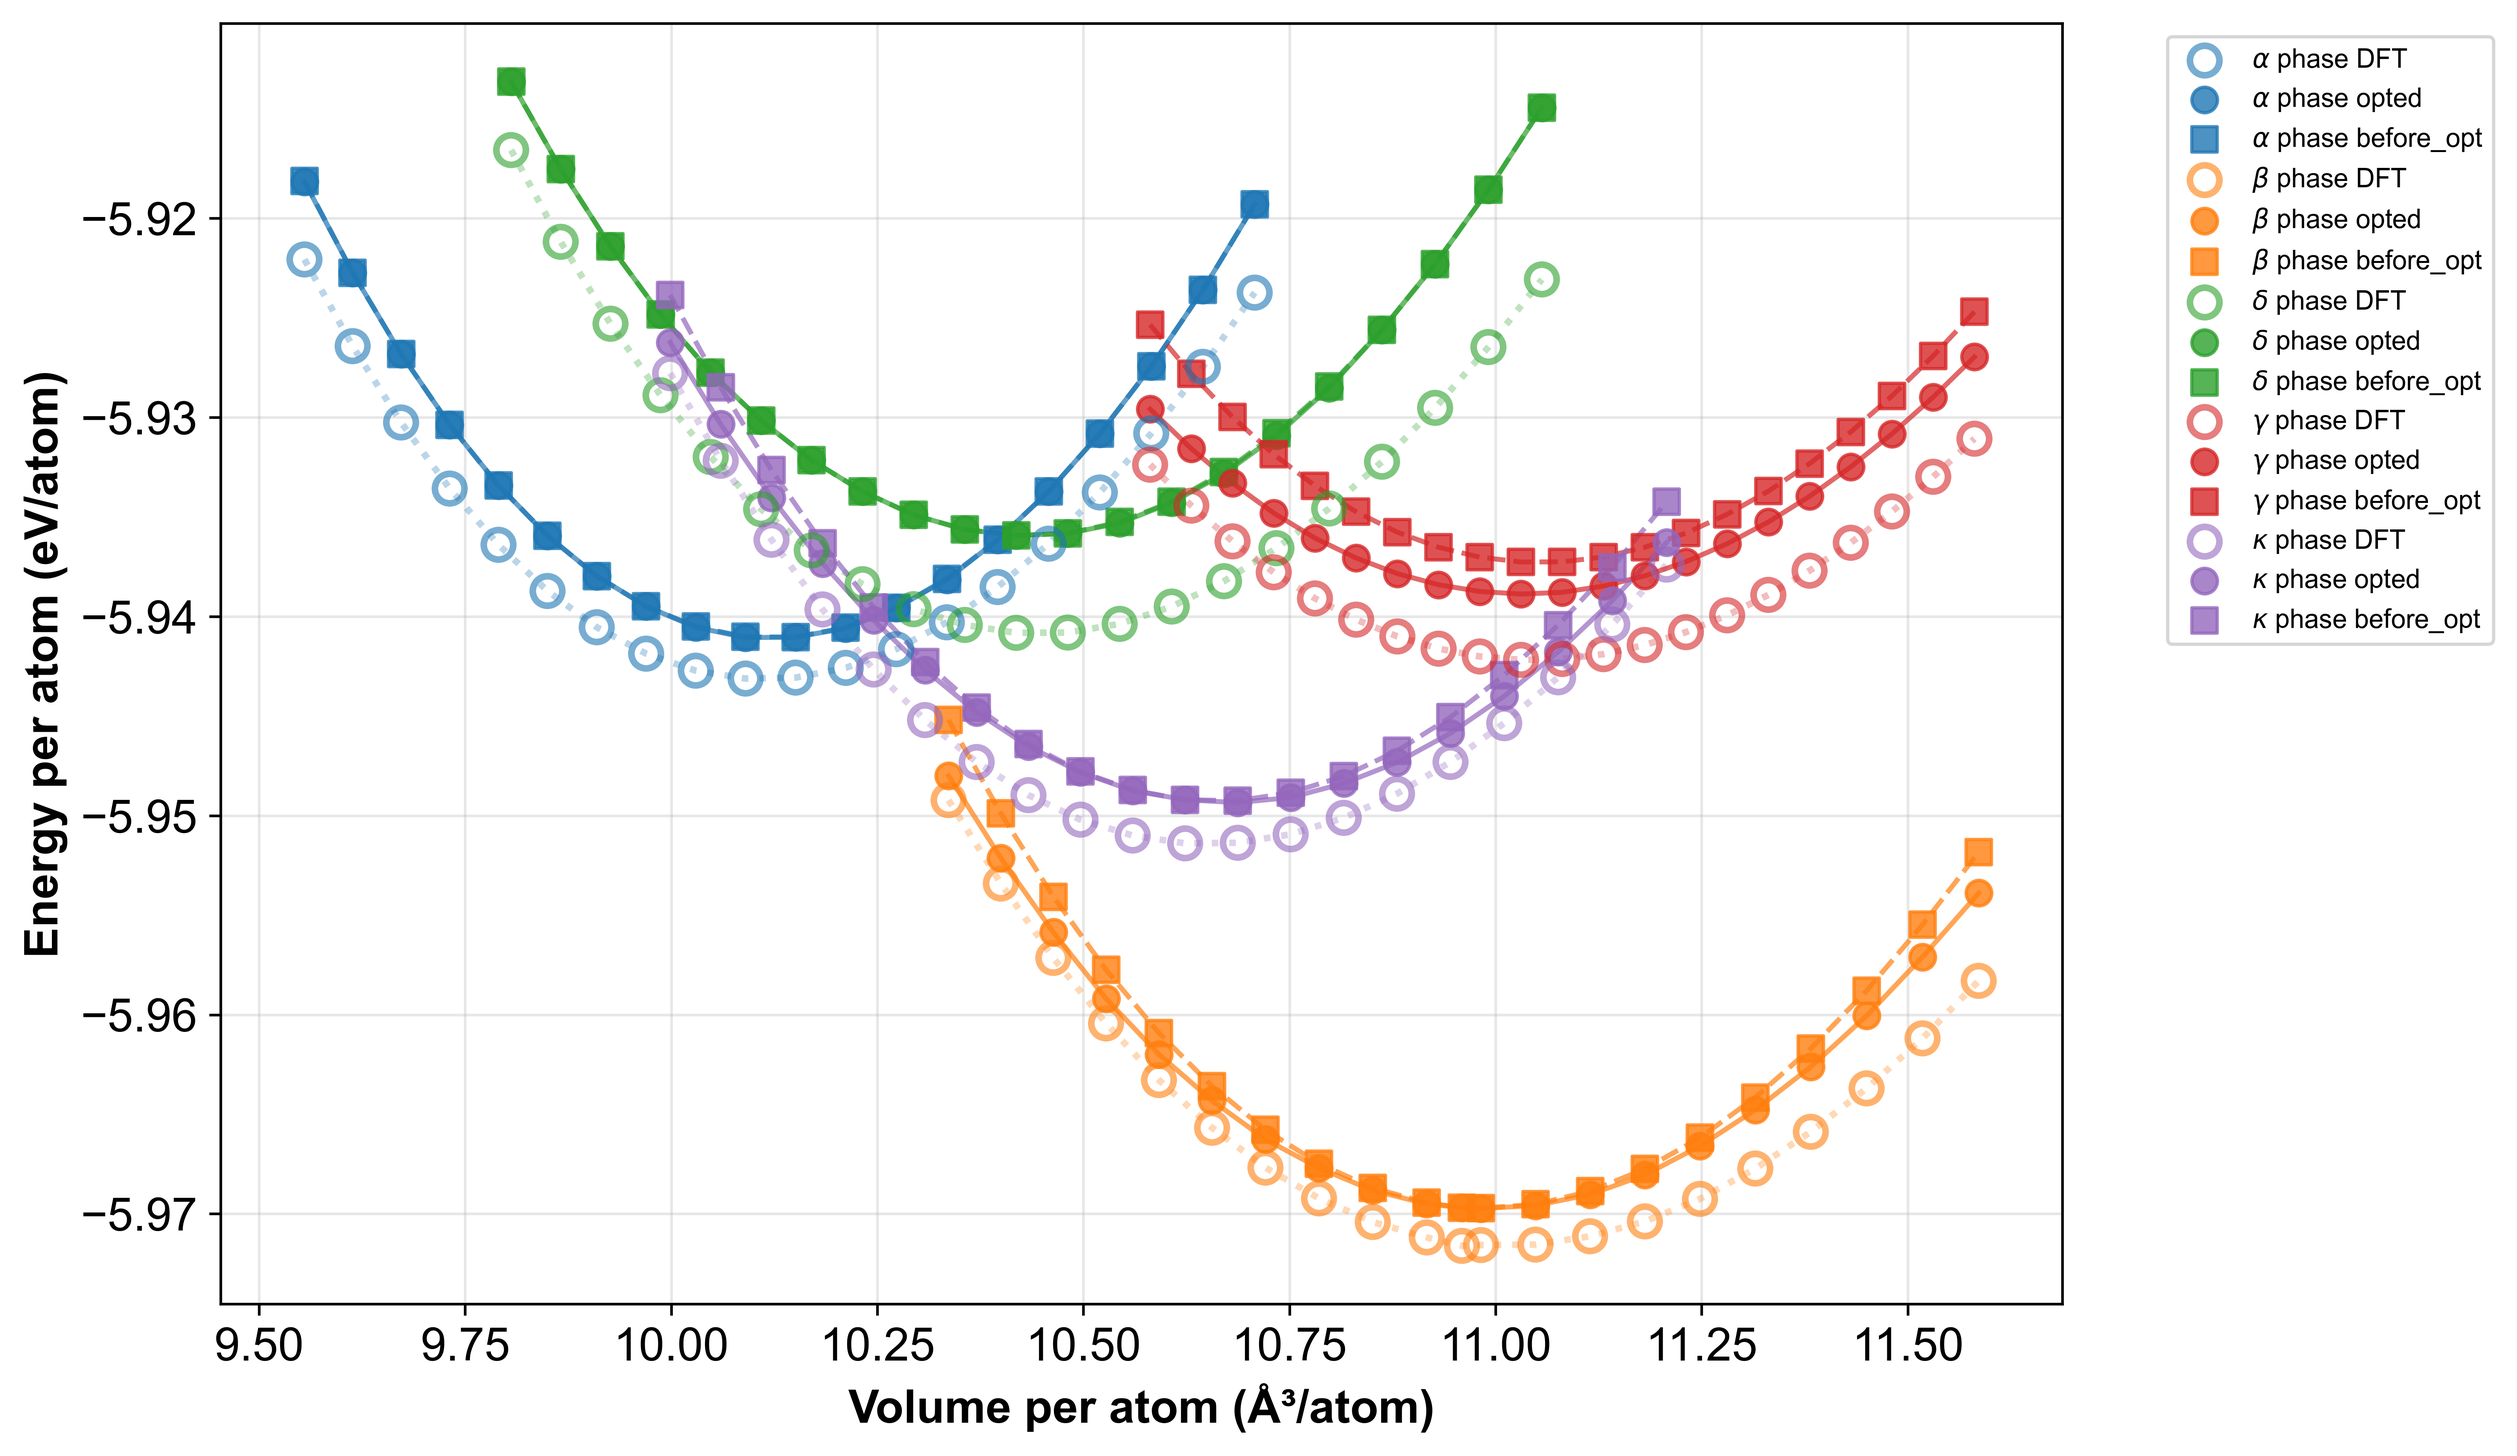
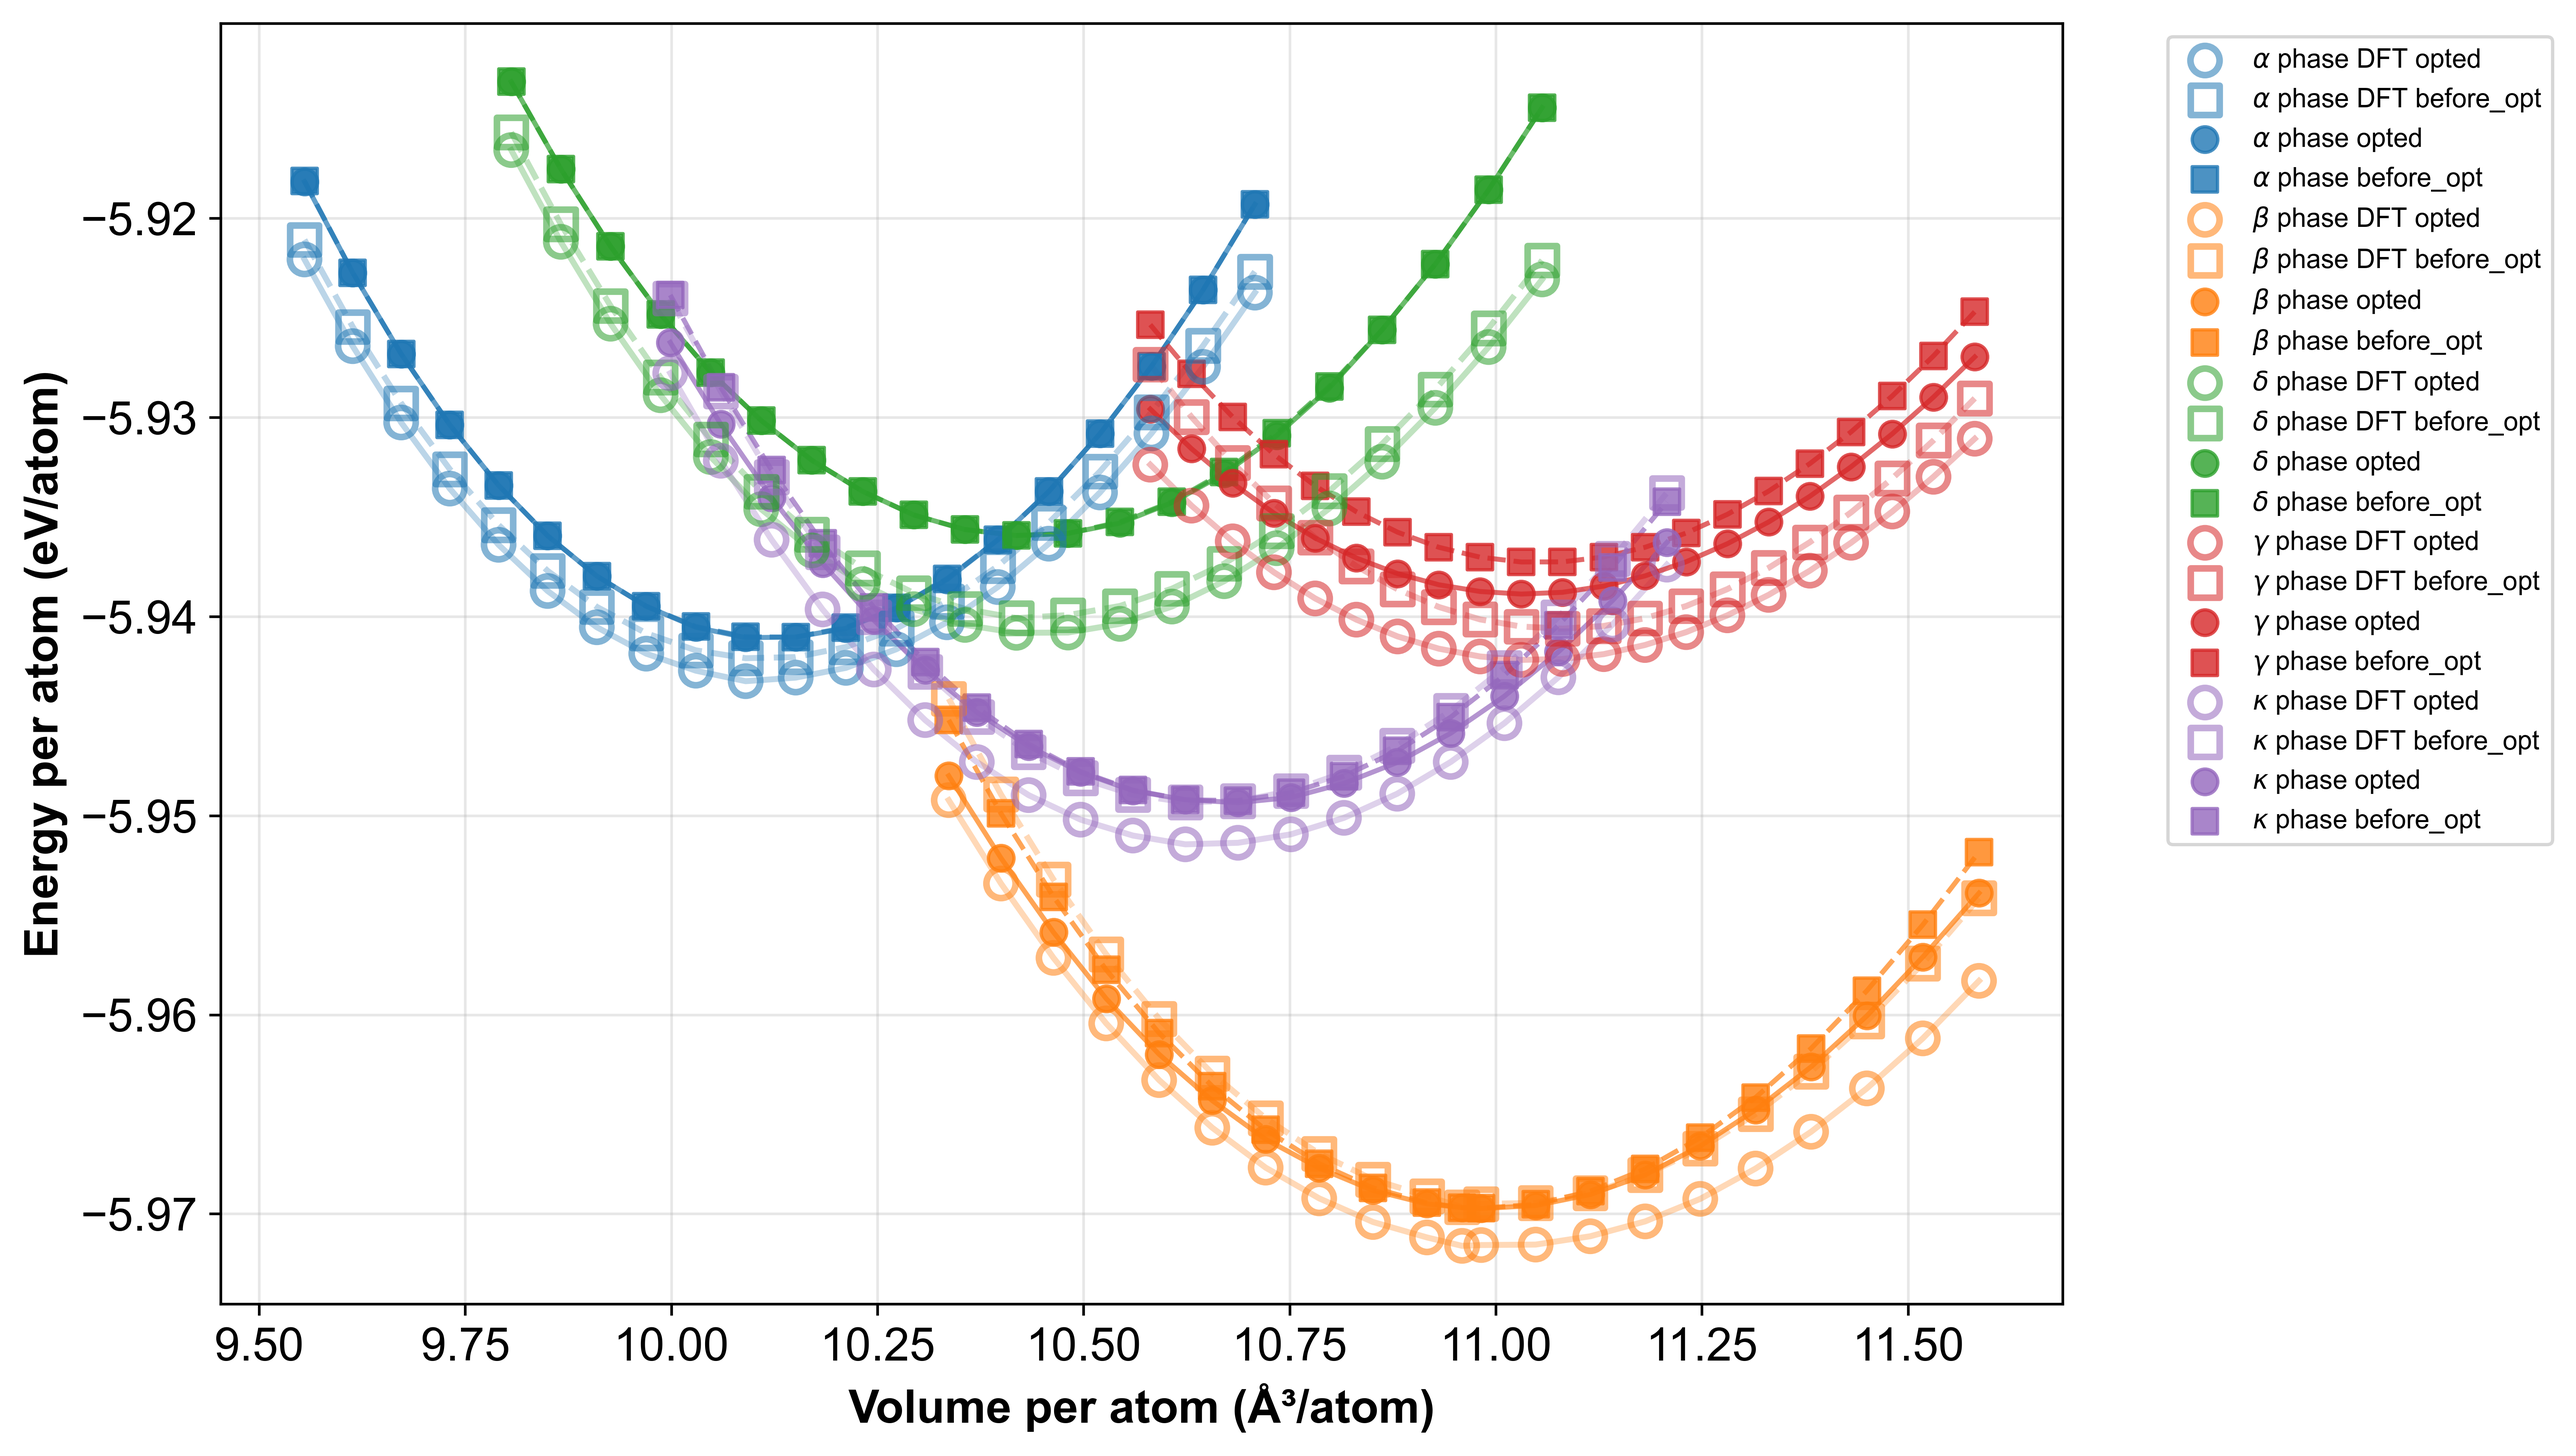
opt(ed)_data_test and lammps_version_test

diff --git a/reviewer_tests/test_01_relax_prepost_ev/scripts/plot_test_energy_volume.py b/reviewer_tests/test_01_relax_prepost_ev/scripts/plot_test_energy_volume.py
@@ -808,7 +808,7 @@ def plot_energy_volume_comparison(data, output_filename, model_name="Model"):
     return plt
 
 
-def plot_multi_model_comparison(multi_model_data, output_filename, model_names=None):
+def plot_multi_model_comparison(multi_model_data, output_filename, model_names=None, dft_mode="shared"):
     """Plot multiple models vs DFT energy-volume comparison
     
     Args:
@@ -822,7 +822,7 @@ def plot_multi_model_comparison(multi_model_data, output_filename, model_names=N
         model_names = [f"Model {i+1}" for i in range(len(multi_model_data))]
     
     # Group data by config_type for each model
-    models_by_config = {}  # {config_type: {vol_key: {'volume': ..., 'dft': ..., 'models': {model_idx: energy}}}}
+    models_by_config = {}  # {config_type: {vol_key: {'volume': ..., 'dft': ..., 'dft_by_model': {model_idx: dft}, 'models': {model_idx: energy}}}}
     
     # First pass: collect all config types and organize data
     for model_idx, data in enumerate(multi_model_data):
@@ -841,9 +841,11 @@ def plot_multi_model_comparison(multi_model_data, output_filename, model_names=N
                 models_by_config[config_type][vol_key] = {
                     'volume': volume_per_atom,
                     'dft': dft_energy,
+                    'dft_by_model': {},
                     'models': {}
                 }
             
+            models_by_config[config_type][vol_key]['dft_by_model'][model_idx] = dft_energy
             models_by_config[config_type][vol_key]['models'][model_idx] = predicted_energy
     
     # Set up figure using GridSpec
@@ -919,16 +921,36 @@ def plot_multi_model_comparison(multi_model_data, output_filename, model_names=N
         sorted_data = sorted(vol_dict.items(), key=lambda x: x[1]['volume'])
         
         volumes = [item[1]['volume'] for item in sorted_data]
-        dft_energies = [item[1]['dft'] for item in sorted_data]
+        dft_energies_shared = [item[1]['dft'] for item in sorted_data]
         
-        # Plot DFT reference (hollow circles, dotted line)
-        ax.scatter(volumes, dft_energies, 
-                  color=color, marker='o', s=80, alpha=0.6, 
-                  facecolors='none', edgecolors=color, linewidths=2,
-                  label=f'{display_name} DFT', zorder=10)
-        if len(volumes) > 1:
-            ax.plot(volumes, dft_energies, color=color, alpha=0.3, 
-                   linewidth=2, linestyle=':', zorder=5)
+        if dft_mode == "per_model":
+            for model_idx in range(len(multi_model_data)):
+                dft_model = []
+                dft_model_vol = []
+                for item in sorted_data:
+                    if model_idx in item[1]['dft_by_model']:
+                        dft_model.append(item[1]['dft_by_model'][model_idx])
+                        dft_model_vol.append(item[1]['volume'])
+                if not dft_model:
+                    continue
+                marker = model_markers[model_idx % len(model_markers)]
+                linestyle = model_linestyles[model_idx % len(model_linestyles)]
+                ax.scatter(dft_model_vol, dft_model,
+                          color=color, marker=marker, s=78, alpha=0.55,
+                          facecolors='none', edgecolors=color, linewidths=2,
+                          label=f'{display_name} DFT {model_names[model_idx]}', zorder=10)
+                if len(dft_model_vol) > 1:
+                    ax.plot(dft_model_vol, dft_model, color=color, alpha=0.3,
+                           linewidth=1.8, linestyle=linestyle, zorder=5)
+        else:
+            # Plot shared DFT reference (hollow circles, dotted line)
+            ax.scatter(volumes, dft_energies_shared,
+                      color=color, marker='o', s=80, alpha=0.6,
+                      facecolors='none', edgecolors=color, linewidths=2,
+                      label=f'{display_name} DFT', zorder=10)
+            if len(volumes) > 1:
+                ax.plot(volumes, dft_energies_shared, color=color, alpha=0.3,
+                       linewidth=2, linestyle=':', zorder=5)
         
         # Plot each model's predictions
         for model_idx in range(len(multi_model_data)):
@@ -995,7 +1017,7 @@ def plot_multi_model_comparison(multi_model_data, output_filename, model_names=N
     return plt
 
 
-REPO_ROOT = Path("/home/abel/workspace/Ga2O3_2026_revision")
+REPO_ROOT = Path(os.environ.get("GA2O3_REPO_ROOT", Path(__file__).resolve().parents[3]))
 ONE_CLICK_CONFIG = {
     "lammps_versions": [
         {"tag": "lammps2025", "exe": REPO_ROOT / "opt/lammps-10Dec2025/bin/lmp"},
@@ -1168,6 +1190,7 @@ def main():
                     [all_results[key_opted]["data"], all_results[key_before]["data"]],
                     str(out),
                     ["opted", "before_opt"],
+                    dft_mode="per_model",
                 )
 
     for s in ONE_CLICK_CONFIG["structures"]:
@@ -1180,6 +1203,7 @@ def main():
                     [all_results[key_tabgap]["data"], all_results[key_nep]["data"]],
                     str(out),
                     ["TABGAP", "NEP"],
+                    dft_mode="shared",
                 )
 
     total_duration = (datetime.now() - start_time).total_seconds()

diff --git a/reviewer_tests/test_02_lammps_version_ev/scripts/plot_test_energy_volume.py b/reviewer_tests/test_02_lammps_version_ev/scripts/plot_test_energy_volume.py
@@ -995,7 +995,7 @@ def plot_multi_model_comparison(multi_model_data, output_filename, model_names=N
     return plt
 
 
-REPO_ROOT = Path("/home/abel/workspace/Ga2O3_2026_revision")
+REPO_ROOT = Path(os.environ.get("GA2O3_REPO_ROOT", Path(__file__).resolve().parents[3]))
 ONE_CLICK_CONFIG = {
     "lammps_versions": [
         {"tag": "lammps2025", "exe": REPO_ROOT / "opt/lammps-10Dec2025/bin/lmp"},
